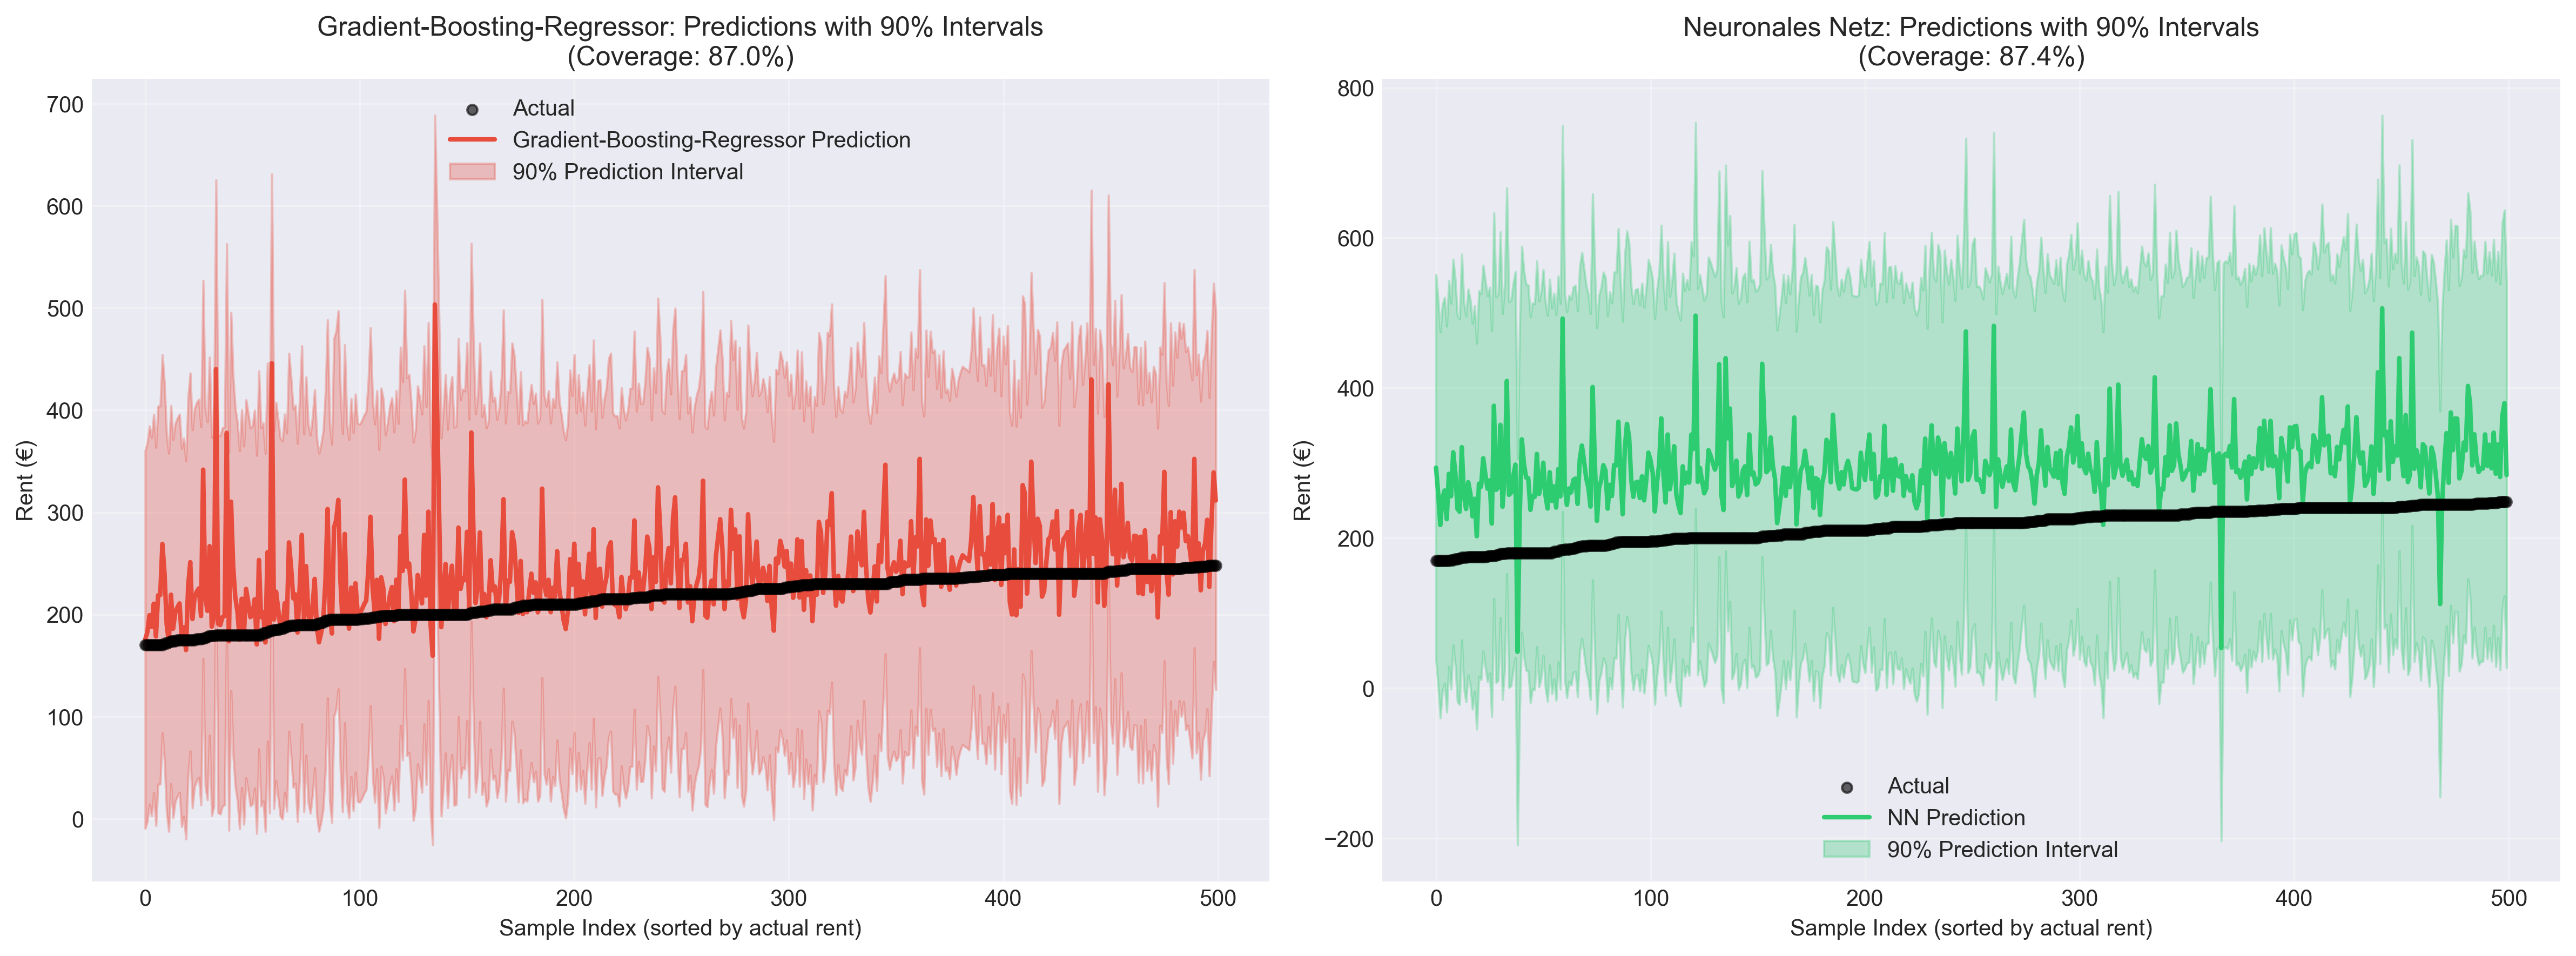
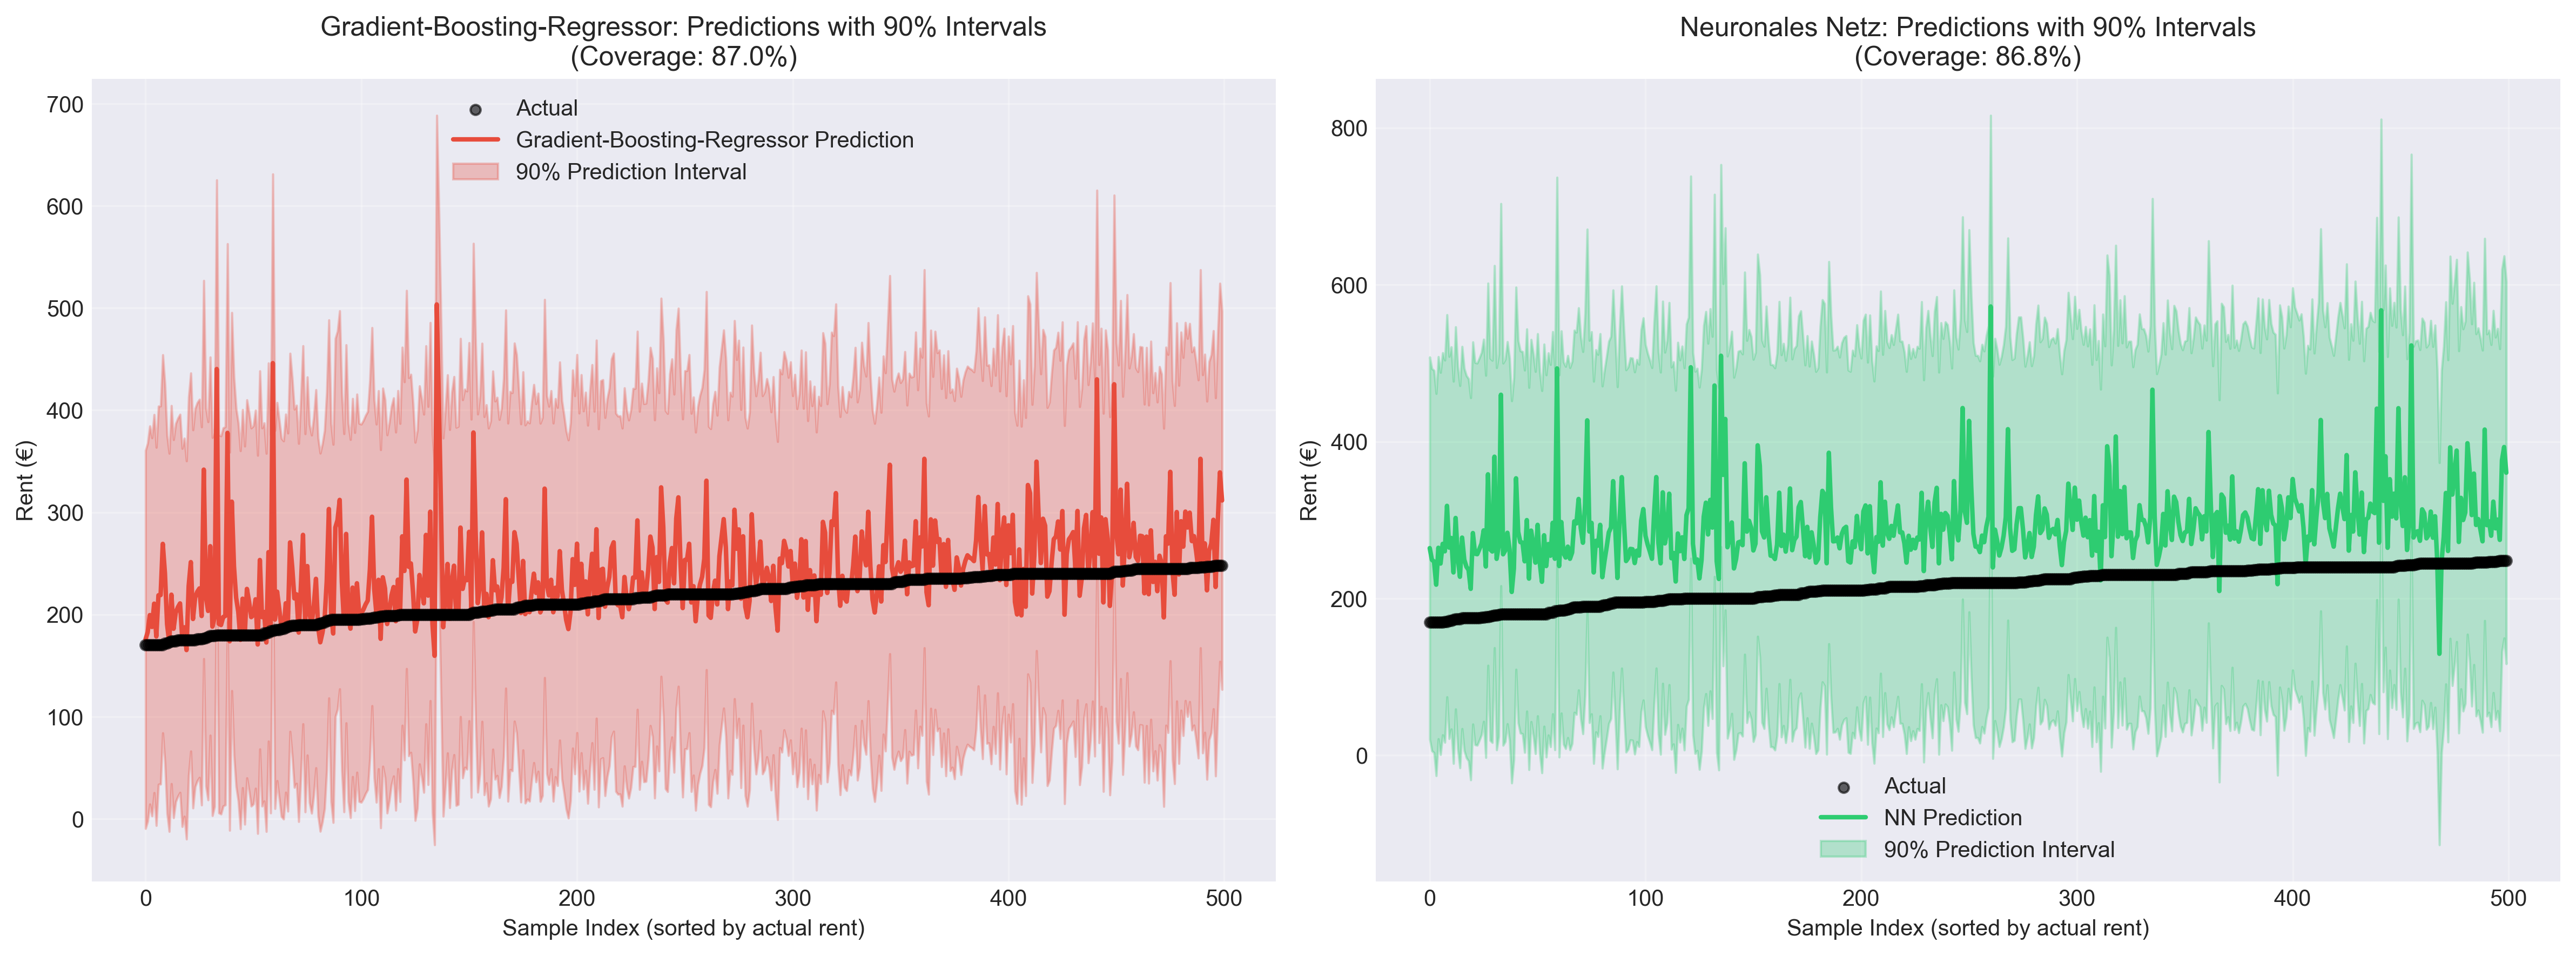
Interactive Karte wurde angepasst, damit alle Daten 49000 verwendet werden. bugs und überflüssige Varibalen wurden bereinigt

diff --git a/interactive_rental_map.html b/interactive_rental_map.html
@@ -104,7 +104,7 @@
             <strong>Preiskategorien:</strong>
             <div class="legend-item">
                 <div class="legend-color" style="background: #2ecc71;"></div>
-                <span>Sehr erschwinglich (€376-€550)</span>
+                <span>Sehr erschwinglich (€371-€550)</span>
             </div>
             <div class="legend-item">
                 <div class="legend-color" style="background: #f1c40f;"></div>
@@ -133,8 +133,8 @@
             • Hinein-/Herauszoomen zum Erkunden<br><br>
             
             <strong>Statistiken:</strong><br>
-            • Durchschnittliche Nettokaltmiete: €677
-            • Spanne: €376 - €1208<br>
+            • Durchschnittliche Nettokaltmiete: €666
+            • Spanne: €371 - €1097<br>
             • Regionen: 16
         </div>
     </div>
@@ -151,7 +151,7 @@
         }).addTo(map);
         
         // Add markers
-        const markers = [{"lat": 48.7758, "lon": 9.1829, "title": "Baden_W\u00fcrttemberg", "rent": 928.05, "color": "#e74c3c", "radius": 15.963888154256725, "count": 503, "std": 437.02, "min": 200.0, "max": 2450.0, "living_space": 79.8, "rooms": 2.77}, {"lat": 48.7758, "lon": 11.4328, "title": "Bayern", "rent": 926.79, "color": "#e74c3c", "radius": 15.945712018849326, "count": 583, "std": 454.6, "min": 200.0, "max": 2480.0, "living_space": 75.79, "rooms": 2.53}, {"lat": 52.52, "lon": 13.405, "title": "Berlin", "rent": 1061.0, "color": "#c0392b", "radius": 17.88175894982329, "count": 244, "std": 539.11, "min": 179.99, "max": 2338.6, "living_space": 74.99, "rooms": 2.41}, {"lat": 52.1189, "lon": 12.6084, "title": "Brandenburg", "rent": 525.76, "color": "#2ecc71", "radius": 10.16065203279398, "count": 173, "std": 321.37, "min": 180.0, "max": 1860.96, "living_space": 69.19, "rooms": 2.56}, {"lat": 53.1045, "lon": 8.8017, "title": "Bremen", "rent": 547.63, "color": "#f1c40f", "radius": 10.476137811650998, "count": 69, "std": 246.6, "min": 218.0, "max": 1190.0, "living_space": 68.74, "rooms": 2.68}, {"lat": 53.5511, "lon": 9.9937, "title": "Hamburg", "rent": 1207.84, "color": "#c0392b", "radius": 20.0, "count": 89, "std": 449.1, "min": 356.75, "max": 2390.0, "living_space": 82.62, "rooms": 2.7}, {"lat": 50.1109, "lon": 8.6821, "title": "Hessen", "rent": 923.34, "color": "#e74c3c", "radius": 15.89594402904335, "count": 469, "std": 438.53, "min": 184.14, "max": 2430.0, "living_space": 77.95, "rooms": 2.63}, {"lat": 53.6154, "lon": 12.9289, "title": "Mecklenburg_Vorpommern", "rent": 455.09, "color": "#2ecc71", "radius": 9.14120164450749, "count": 180, "std": 334.7, "min": 175.0, "max": 1980.0, "living_space": 65.03, "rooms": 2.57}, {"lat": 52.6362, "lon": 9.7753, "title": "Niedersachsen", "rent": 616.96, "color": "#f1c40f", "radius": 11.476258024186762, "count": 451, "std": 332.23, "min": 174.0, "max": 2400.0, "living_space": 77.49, "rooms": 2.71}, {"lat": 51.4556, "lon": 7.0116, "title": "Nordrhein_Westfalen", "rent": 597.87, "color": "#f1c40f", "radius": 11.200875147260357, "count": 1563, "std": 330.96, "min": 176.0, "max": 2290.0, "living_space": 73.79, "rooms": 2.67}, {"lat": 49.9929, "lon": 6.9623, "title": "Rheinland_Pfalz", "rent": 676.13, "color": "#f1c40f", "radius": 12.329815113119995, "count": 200, "std": 355.7, "min": 179.0, "max": 2285.0, "living_space": 78.82, "rooms": 2.6}, {"lat": 49.2557, "lon": 6.9983, "title": "Saarland", "rent": 547.91, "color": "#f1c40f", "radius": 10.480176952852643, "count": 26, "std": 226.37, "min": 240.0, "max": 1348.0, "living_space": 77.25, "rooms": 2.71}, {"lat": 51.0834, "lon": 13.5325, "title": "Sachsen", "rent": 432.55, "color": "#2ecc71", "radius": 8.816050777775107, "count": 1695, "std": 265.27, "min": 170.0, "max": 1920.36, "living_space": 65.79, "rooms": 2.49}, {"lat": 51.6921, "lon": 11.8797, "title": "Sachsen_Anhalt", "rent": 375.98, "color": "#2ecc71", "radius": 8.0, "count": 600, "std": 185.32, "min": 170.0, "max": 1657.5, "living_space": 64.04, "rooms": 2.59}, {"lat": 54.5973, "lon": 9.8773, "title": "Schleswig_Holstein", "rent": 623.16, "color": "#f1c40f", "radius": 11.565696150794604, "count": 158, "std": 265.0, "min": 250.0, "max": 1550.0, "living_space": 70.79, "rooms": 2.57}, {"lat": 50.984, "lon": 11.029, "title": "Th\u00fcringen", "rent": 380.53, "color": "#2ecc71", "radius": 8.065636044526723, "count": 265, "std": 192.98, "min": 170.0, "max": 1665.0, "living_space": 64.55, "rooms": 2.48}];
+        const markers = [{"lat": 48.7758, "lon": 9.1829, "title": "Baden_W\u00fcrttemberg", "rent": 935.81, "color": "#e74c3c", "radius": 17.331553965742586, "count": 2847, "std": 430.29, "min": 170.0, "max": 2450.0, "living_space": 82.23, "rooms": 2.92}, {"lat": 48.7758, "lon": 11.4328, "title": "Bayern", "rent": 921.09, "color": "#e74c3c", "radius": 17.088532709637477, "count": 3628, "std": 457.96, "min": 175.0, "max": 2480.0, "living_space": 76.82, "rooms": 2.59}, {"lat": 52.52, "lon": 13.405, "title": "Berlin", "rent": 1012.27, "color": "#c0392b", "radius": 18.59387769140813, "count": 1668, "std": 498.99, "min": 179.99, "max": 2480.0, "living_space": 74.57, "rooms": 2.47}, {"lat": 52.1189, "lon": 12.6084, "title": "Brandenburg", "rent": 508.36, "color": "#2ecc71", "radius": 10.274527068858774, "count": 1348, "std": 302.3, "min": 170.0, "max": 2419.0, "living_space": 69.69, "rooms": 2.61}, {"lat": 53.1045, "lon": 8.8017, "title": "Bremen", "rent": 586.8, "color": "#f1c40f", "radius": 11.569539795005845, "count": 515, "std": 301.13, "min": 203.0, "max": 2000.0, "living_space": 72.57, "rooms": 2.6}, {"lat": 53.5511, "lon": 9.9937, "title": "Hamburg", "rent": 1097.44, "color": "#c0392b", "radius": 20.0, "count": 577, "std": 455.86, "min": 235.0, "max": 2450.0, "living_space": 78.77, "rooms": 2.61}, {"lat": 50.1109, "lon": 8.6821, "title": "Hessen", "rent": 907.8, "color": "#e74c3c", "radius": 16.869120176102356, "count": 3050, "std": 446.09, "min": 170.0, "max": 2460.0, "living_space": 79.93, "rooms": 2.69}, {"lat": 53.6154, "lon": 12.9289, "title": "Mecklenburg_Vorpommern", "rent": 428.18, "color": "#2ecc71", "radius": 8.950787645318842, "count": 1299, "std": 255.73, "min": 170.0, "max": 2100.0, "living_space": 64.66, "rooms": 2.6}, {"lat": 52.6362, "lon": 9.7753, "title": "Niedersachsen", "rent": 599.01, "color": "#f1c40f", "radius": 11.771121964641948, "count": 2998, "std": 323.45, "min": 170.0, "max": 2473.51, "living_space": 77.01, "rooms": 2.78}, {"lat": 51.4556, "lon": 7.0116, "title": "Nordrhein_Westfalen", "rent": 586.97, "color": "#f1c40f", "radius": 11.572346426360323, "count": 11057, "std": 323.28, "min": 170.0, "max": 2474.0, "living_space": 73.9, "rooms": 2.68}, {"lat": 49.9929, "lon": 6.9623, "title": "Rheinland_Pfalz", "rent": 682.26, "color": "#e67e22", "radius": 13.145545848524453, "count": 1485, "std": 339.14, "min": 170.0, "max": 2285.0, "living_space": 81.61, "rooms": 2.71}, {"lat": 49.2557, "lon": 6.9983, "title": "Saarland", "rent": 556.99, "color": "#f1c40f", "radius": 11.07738873220059, "count": 244, "std": 223.04, "min": 188.1, "max": 1348.0, "living_space": 78.99, "rooms": 2.7}, {"lat": 51.0834, "lon": 13.5325, "title": "Sachsen", "rent": 431.87, "color": "#2ecc71", "radius": 9.011708055307148, "count": 11460, "std": 273.2, "min": 170.0, "max": 2419.0, "living_space": 66.7, "rooms": 2.51}, {"lat": 51.6921, "lon": 11.8797, "title": "Sachsen_Anhalt", "rent": 370.59, "color": "#2ecc71", "radius": 8.0, "count": 4065, "std": 187.14, "min": 170.0, "max": 2256.76, "living_space": 63.9, "rooms": 2.6}, {"lat": 54.5973, "lon": 9.8773, "title": "Schleswig_Holstein", "rent": 644.49, "color": "#f1c40f", "radius": 12.521978399944967, "count": 1161, "std": 298.55, "min": 170.0, "max": 2100.0, "living_space": 74.0, "rooms": 2.64}, {"lat": 50.984, "lon": 11.029, "title": "Th\u00fcringen", "rent": 387.9, "color": "#2ecc71", "radius": 8.285781110270344, "count": 1598, "std": 196.84, "min": 170.0, "max": 2150.0, "living_space": 66.44, "rooms": 2.57}];
         
         markers.forEach(function(marker) {
             const circle = L.circleMarker([marker.lat, marker.lon], {

diff --git a/visualizations.py b/visualizations.py
@@ -340,61 +340,7 @@ plt.savefig('05_spatial_analysis.png', dpi=300, bbox_inches='tight')
 print("   ✓ Gespeichert: 05_spatial_analysis.png")
 plt.close()
 
-# ============================================================================
-# 6. ZEITLICHE ANALYSE
-# ============================================================================
-print("\n[6] Erstelle Visualisierungen zur zeitlichen Analyse...")
 
-fig = plt.figure(figsize=(16, 8))
-gs = GridSpec(2, 2, figure=fig)
-
-if 'year' in test_df.columns and 'month' in test_df.columns:
-    # 6.1 Average rent by month
-    ax1 = fig.add_subplot(gs[0, 0])
-    month_avg = test_df.groupby('month')['baseRent'].agg(['mean', 'std'])
-    ax1.plot(month_avg.index, month_avg['mean'], marker='o', linewidth=3, color='#3498db', markersize=8)
-    ax1.fill_between(month_avg.index, 
-                    month_avg['mean'] - month_avg['std'],
-                    month_avg['mean'] + month_avg['std'],
-                    alpha=0.3, color='#3498db')
-    ax1.set_xlabel('Month')
-    ax1.set_ylabel('Average Base Rent (€)')
-    ax1.set_title('Saisonale Preisentwicklung (Monatsdurchschnitt)')
-    ax1.set_xticks(range(1, 13))
-    ax1.grid(True, alpha=0.3)
-    
-    # 6.2 Average rent by quarter
-    ax2 = fig.add_subplot(gs[0, 1])
-    quarter_avg = test_df.groupby('quarter')['baseRent'].mean()
-    colors_quarter = ['#3498db', '#e74c3c', '#2ecc71', '#f39c12']
-    ax2.bar(quarter_avg.index, quarter_avg.values, color=colors_quarter, edgecolor='black', width=0.6)
-    ax2.set_xlabel('Quarter')
-    ax2.set_ylabel('Average Base Rent (€)')
-    ax2.set_title('Durchschnittliche Miete nach Quartal')
-    ax2.set_xticks([1, 2, 3, 4])
-    ax2.grid(True, alpha=0.3, axis='y')
-    
-    # 6.3 Rent trend by year and major regions
-    ax3 = fig.add_subplot(gs[1, :])
-    top_regions_temporal = test_df.groupby('regio1')['baseRent'].count().nlargest(5).index.tolist()
-    for region in top_regions_temporal:
-        region_temporal = test_df[test_df['regio1'] == region].groupby('year')['baseRent'].mean()
-        ax3.plot(region_temporal.index, region_temporal.values, marker='o', label=region, linewidth=2, markersize=8)
-    
-    ax3.set_xlabel('Year')
-    ax3.set_ylabel('Average Base Rent (€)')
-    ax3.set_title('Preisentwicklung nach Jahr (Top 5 Regionen)')
-    ax3.legend(loc='best')
-    ax3.grid(True, alpha=0.3)
-else:
-    ax_temp = fig.add_subplot(gs[:, :])
-    ax_temp.text(0.5, 0.5, 'Insufficient temporal data', ha='center', va='center', fontsize=16)
-    ax_temp.axis('off')
-
-plt.tight_layout()
-plt.savefig('06_temporal_analysis.png', dpi=300, bbox_inches='tight')
-print("   ✓ Gespeichert: 06_temporal_analysis.png")
-plt.close()
 
 
 
@@ -407,8 +353,6 @@ print("  - 02_model_performance.png")
 print("  - 03_uncertainty_analysis.png")
 print("  - 04_feature_importance.png")
 print("  - 05_spatial_analysis.png")
-print("  - 06_temporal_analysis.png")
-print("  - 07_residual_analysis.png")
 print("\nNächste Schritte:")
 print("  1. Ausführen: python3 generate_maps.py")
 print("  2. Ausführen: python3 generate_report.py")

diff --git a/generate_maps.py b/generate_maps.py
@@ -11,12 +11,19 @@ print("INTERAKTIVE KARTEN ERSTELLEN ")
 print("="*80)
 
 # Ergebnisse laden
+with open('pipeline_results.pkl', 'rb') as f:
+    results = pickle.load(f)
+
 with open('evaluation_results.pkl', 'rb') as f:
     eval_results = pickle.load(f)
 
-test_df = eval_results['test_data']
+# Vollständig bereinigter Datensatz für die regionale Mietpreiskarte
+map_df = results['df']
 
-# Regional coordinates (German cities)
+# Testdaten mit Vorhersagen für die Genauigkeitskarte
+accuracy_df = eval_results['test_data']
+
+# Regionale Koordinaten (Mittelpunkt jeder Region für Markerplatzierung)
 region_coords = {
     'Baden_Württemberg': [48.7758, 9.1829],
     'Bayern': [48.7758, 11.4328],
@@ -36,11 +43,10 @@ region_coords = {
     'Thüringen': [50.9840, 11.0290]
 }
 
-# Aggregate data by region
+# Aggregate data by region for the interactive rental map
 print("[1] Bereite regionale Daten vor...")
-regional_stats = test_df.groupby('regio1').agg({
+regional_stats = map_df.groupby('regio1').agg({
     'baseRent': ['mean', 'std', 'min', 'max', 'count'],
-    'prediction_xgb': 'mean',
     'livingSpace': 'mean',
     'noRooms': 'mean'
 }).round(2)
@@ -51,7 +57,6 @@ regional_stats = regional_stats.reset_index()
 # Rename aggregated columns for easier access
 regional_stats.rename(columns={
     'baseRent_mean': 'baseRent_mean',
-    'prediction_xgb_mean': 'prediction_xgb',
     'livingSpace_mean': 'livingSpace_mean',
     'noRooms_mean': 'noRooms_mean'
 }, inplace=True)
@@ -347,9 +352,29 @@ print("   ✓ Gespeichert: interactive_rental_map.html")
 # ============================================================================
 print("\n[3] Erstelle Genauigkeitskarte als HTML...")
 
-# Calculate errors
-regional_stats['prediction_error'] = abs(
-    regional_stats['baseRent_mean'] - regional_stats['prediction_xgb']
+# Prepare regional statistics for the prediction accuracy map from test data
+accuracy_regional_stats = accuracy_df.groupby('regio1').agg({
+    'baseRent': ['mean', 'std', 'min', 'max', 'count'],
+    'prediction_xgb': 'mean',
+    'livingSpace': 'mean',
+    'noRooms': 'mean'
+}).round(2)
+
+accuracy_regional_stats.columns = ['_'.join(col).strip() for col in accuracy_regional_stats.columns.values]
+accuracy_regional_stats = accuracy_regional_stats.reset_index()
+
+accuracy_regional_stats.rename(columns={
+    'baseRent_mean': 'baseRent_mean',
+    'prediction_xgb_mean': 'prediction_xgb',
+    'livingSpace_mean': 'livingSpace_mean',
+    'noRooms_mean': 'noRooms_mean'
+}, inplace=True)
+
+accuracy_regional_stats['region_name'] = accuracy_regional_stats['regio1'].map(region_name_map)
+
+# Calculate errors for prediction accuracy map
+accuracy_regional_stats['prediction_error'] = abs(
+    accuracy_regional_stats['baseRent_mean'] - accuracy_regional_stats['prediction_xgb']
 )
 
 def get_error_color(error):
@@ -367,7 +392,7 @@ def get_error_color(error):
 
 # Markerdaten erstellen for accuracy
 accuracy_markers = []
-for idx, row in regional_stats.iterrows():
+for idx, row in accuracy_regional_stats.iterrows():
     region_name = row['region_name']
     if region_name in region_coords:
         lat, lon = region_coords[region_name]
@@ -596,8 +621,8 @@ accuracy_html = '''<!DOCTYPE html>
 # Render accuracy template using .replace() instead of .format()
 accuracy_output = accuracy_html
 accuracy_output = accuracy_output.replace('{{ACCURACY_JSON}}', json.dumps(accuracy_markers))
-accuracy_output = accuracy_output.replace('{{MEAN_ERROR}}', f'{regional_stats["prediction_error"].mean():.2f}')
-accuracy_output = accuracy_output.replace('{{NUM_REGIONS_ACC}}', str(len(regional_stats)))
+accuracy_output = accuracy_output.replace('{{MEAN_ERROR}}', f'{accuracy_regional_stats["prediction_error"].mean():.2f}')
+accuracy_output = accuracy_output.replace('{{NUM_REGIONS_ACC}}', str(len(accuracy_regional_stats)))
 
 # Genauigkeitskarte speichern
 with open('prediction_accuracy_map.html', 'w', encoding='utf-8') as f:

diff --git a/generate_report.py b/generate_report.py
@@ -589,37 +589,20 @@ with open('EVALUATION_REPORT.txt', 'w', encoding='utf-8') as f:
 
 print("\n✓ Bericht gespeichert unter: EVALUATION_REPORT.txt")
 
-report_json = {
-    'generated_at': datetime.now().isoformat(),
-    'best_model': best_model,
-    'test_metrics': {
-        'mae': float(best_test_mae),
-        'rmse': float(best_test_rmse),
-        'r2': float(best_test_r2)
-    },
-    'prediction_intervals': {
-        'coverage': float(xgb_intervals['coverage']),
-        'interval_width': float(xgb_intervals['interval_width']),
-        'std_residuals': float(xgb_intervals['std_residuals'])
-    },
-    'dataset': metadata
-}
-
 
 
 print("\n" + "="*80)
 print("BERICHTSERSTELLUNG ERFOLGREICH ABGESCHLOSSEN")
 print("="*80)
 
-print("\nAlle Abgabedateien sind bereit:")
+print("\nAlle Dateien sind bereit:")
 
 print("  ✓ main_pipeline.py - Komplette Machine-Learning-Pipeline")
 print("  ✓ evaluate_models.py - Modellbewertung")
 print("  ✓ visualizations.py - Erstellung der Diagramme")
 print("  ✓ generate_maps.py - Interaktive Karten")
 print("  ✓ generate_report.py - Berichtserstellung")
-print("  ✓ 7 Visualisierungsdateien (PNG)")
+print("  ✓ 5 Visualisierungsdateien (PNG)")
 print("  ✓ 2 Interaktive Karten (HTML)")
 print("  ✓ Bewertungsbericht (TXT)")
-print("  ✓ Berichtszusammenfassung (JSON)")
 

diff --git a/main_pipeline.py b/main_pipeline.py
@@ -135,7 +135,7 @@ print(f"Endgültige Datensatzgröße: {df.shape}")
 # ============================================================================
 # SCHRITT 3: DATENAUFTEILUNG (ZEITLICHE STRATEGIE)
 # ============================================================================
-print("\n[SCHRITT 3] Teile Daten auf (zeitliche Strategie)...")
+print("\n[SCHRITT 3] Teile Daten auf ...")
 
 # Zeitliche Aufteilung für realistische Vorhersageszenarien
 #train_df = df[df['year'] == 2019].copy()

diff --git a/README.md b/README.md
@@ -73,10 +73,9 @@ Nach der Datenbereinigung wurden insgesamt 41.021 Datensätze verwendet.
 
 | Datensatz   | Anzahl |
 | ----------- | -----: |
-| Training    | 26.485 |
+| Training    | 34.464 |
 | Validierung |  7.268 |
 | Test        |  7.268 |
-
 ---
 
 # Zielvariable
@@ -219,7 +218,7 @@ Zur Vermeidung von Overfitting wurden Dropout-Schichten und L2-Regularisierung e
 
 Für die Bewertung der Modelle wurde ein zeitlicher Split verwendet.
 
-* Trainingsdaten: 2019
+* Trainingsdaten: 201-2019
 * Validierungsdaten: 2020
 * Testdaten: 2020
 
@@ -243,9 +242,6 @@ Berücksichtigt größere Fehler stärker als der MAE.
 
 Beschreibt den Anteil der erklärten Varianz.
 
-## MAPE (Mean Absolute Percentage Error)
-
-Mittlere prozentuale Abweichung zwischen Vorhersage und tatsächlichem Wert.
 
 ---
 
@@ -255,9 +251,9 @@ Mittlere prozentuale Abweichung zwischen Vorhersage und tatsächlichem Wert.
 
 | Modell                      |      MAE |     RMSE |     R² |
 | --------------------------- | -------: | -------: | -----: |
-| Ridge-Regression            | 145,04 € | 218,59 € | 0,7074 |
-| Gradient-Boosting-Regressor |  90,22 € | 144,79 € | 0,8716 |
-| Neuronales Netz             | 135,74 € | 220,16 € | 0,7032 |
+| Ridge-Regression            | 145,04 € | 217,93 € | 0,7092 |
+| Gradient-Boosting-Regressor |  89,74 € | 143,92 € | 0,8732 |
+| Neuronales Netz             | 127,23 € | 203,13 € | 0,7474 |
 
 ---
 
@@ -267,11 +263,11 @@ Der Gradient-Boosting-Regressor erzielte die beste Leistung auf dem Testdatensat
 
 Testergebnisse:
 
-* MAE: 90,22 €
-* RMSE: 144,79 €
-* R²: 0,8716
+* MAE: 89,74 €
+* RMSE: 143,92 €
+* R²: 0,8732
 
-Das Modell erklärt damit rund 87,2 % der Varianz der Mietpreise.
+Das Modell erklärt damit rund 87,3 % der Varianz der Mietpreise.
 
 ---
 
@@ -283,9 +279,9 @@ Hierzu wurden 90%-Vorhersageintervalle auf Basis der Modellresiduen berechnet.
 
 Ergebnisse:
 
-* Coverage: 86,9 %
-* Durchschnittliche Intervallbreite: 372,55 €
-* Standardabweichung der Residuen: 113,24 €
+* Coverage: 87,0 %
+* Durchschnittliche Intervallbreite: 370,16 €
+* Standardabweichung der Residuen: 112,51 €
 
 Die Analyse zeigt, dass die Vorhersageintervalle die tatsächlichen Mietpreise in einem Großteil der Fälle zuverlässig einschließen.
 
@@ -378,7 +374,7 @@ Das Projekt erzeugt unter anderem:
 * 04_feature_importance.png
 * 05_spatial_analysis.png
 * 06_temporal_analysis.png
-* 07_residual_analysis.png
+
 
 ## Interaktive Karten
 
@@ -431,7 +427,7 @@ bash run_pipeline.sh
 
 Trotz der guten Vorhersageleistung bestehen einige Einschränkungen:
 
-* Datensatz beschränkt sich auf die Jahre 2019–2020
+* Datensatz beschränkt sich auf die Jahre 2018–2020
 * Teilweise fehlende Werte erfordern Imputation
 * Keine Berücksichtigung makroökonomischer Einflussgrößen
 * Keine langfristige Vorhersage zukünftiger Mietmarktentwicklungen
@@ -444,4 +440,4 @@ Im Rahmen dieser Projektarbeit wurde ein vollständiges Maschinenlernen-System z
 
 Durch den Vergleich verschiedener Modellklassen, die Integration räumlicher und zeitlicher Merkmale sowie die Durchführung einer Unsicherheitsanalyse konnte eine umfassende Untersuchung des Problems durchgeführt werden.
 
-Das beste Modell, ein Gradient-Boosting-Regressor, erreicht einen MAE von 90,68 € und erklärt rund 87 % der Varianz der Mietpreise. Die Ergebnisse zeigen, dass datengetriebene Verfahren eine zuverlässige Unterstützung bei der Analyse und Bewertung von Mietpreisen liefern können.
+Das beste Modell, ein Gradient-Boosting-Regressor, erreicht einen MAE von 89,74 € und erklärt rund 87,3 % der Varianz der Mietpreise. Die Ergebnisse zeigen, dass datengetriebene Verfahren eine zuverlässige Unterstützung bei der Analyse und Bewertung von Mietpreisen liefern können.